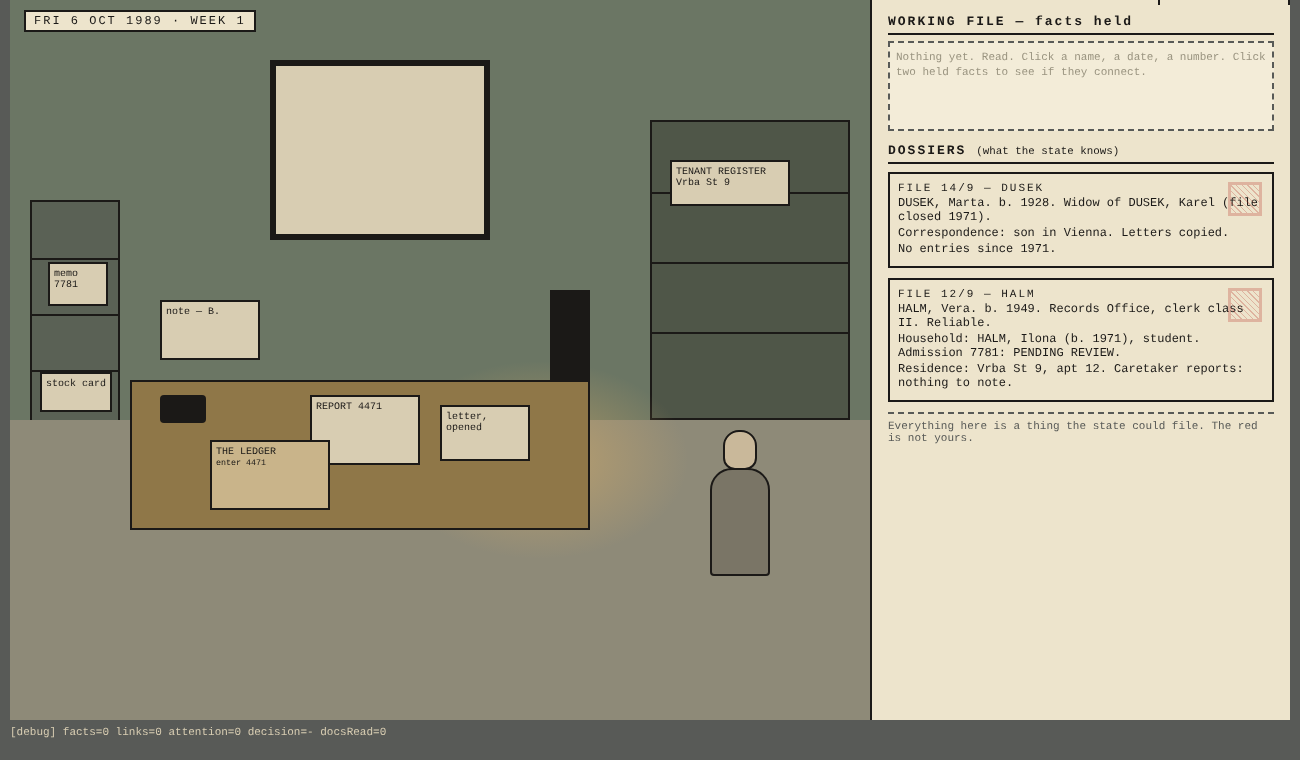
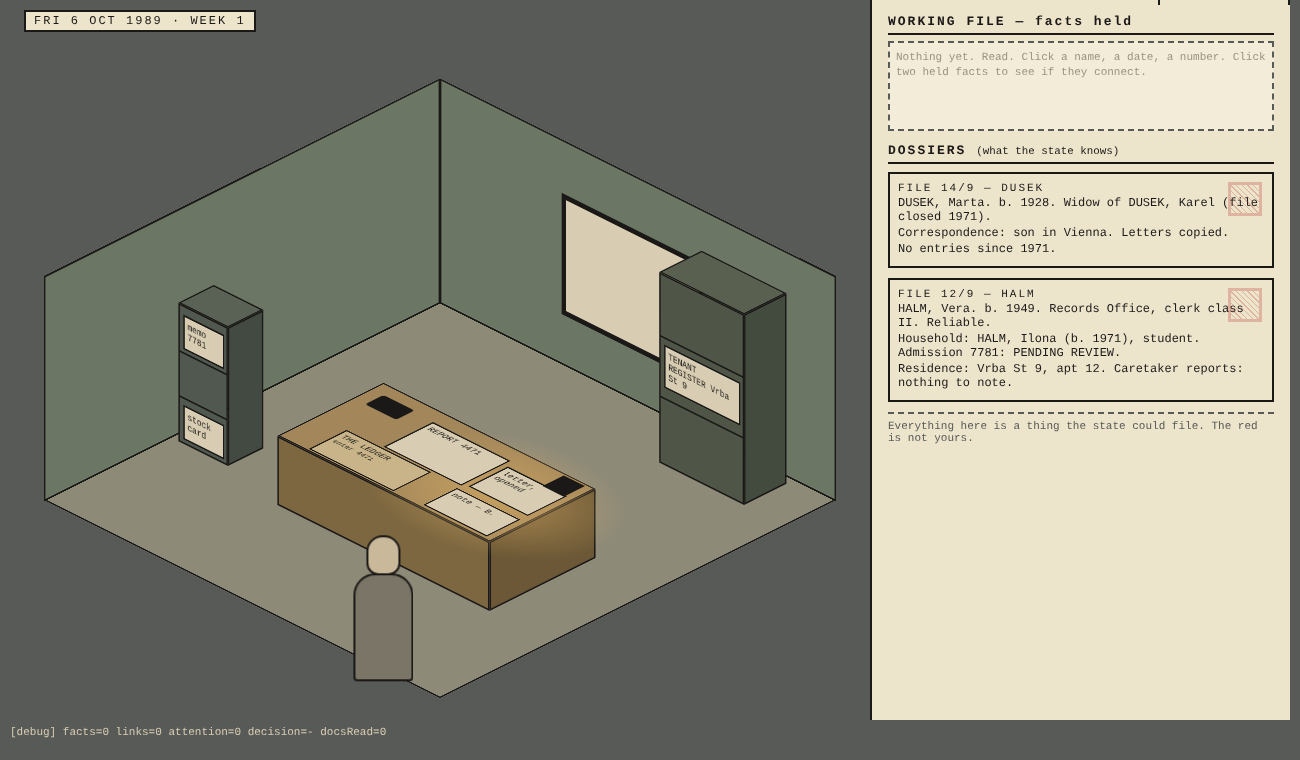
feat(prototype): render the archivist office as an isometric plate
Prototype: prototypes/paper-walls-archivist-concept/. CSS 3D dimetric room
(two back walls, desk, shelf, cabinet, figure billboard); hotspots lie on
the surfaces; logic unchanged; click-through re-verified.

Claude-Session: https://claude.ai/code/session_01XssXybEJ9thyVH7R6HeSgS

diff --git a/prototypes/paper-walls-archivist-concept/prototype.html b/prototypes/paper-walls-archivist-concept/prototype.html
@@ -11,24 +11,42 @@
   *{box-sizing:border-box}
   body{margin:0;background:var(--concrete);font-family:"Courier New",Courier,monospace;color:var(--soot);}
   #stage{position:relative;width:1280px;height:720px;margin:0 auto;background:var(--bone);overflow:hidden}
-  /* the office plate */
-  #plate{position:absolute;left:0;top:0;width:860px;height:720px;background:var(--green);}
-  #floor{position:absolute;left:0;top:420px;width:860px;height:300px;background:#8e8a78;}
-  #desk{position:absolute;left:120px;top:380px;width:460px;height:150px;background:var(--ochre);border:2px solid var(--soot)}
-  #lamp{position:absolute;left:540px;top:290px;width:40px;height:90px;background:var(--soot)}
-  #lamppool{position:absolute;left:380px;top:360px;width:300px;height:200px;background:radial-gradient(ellipse at center,rgba(221,176,101,.55),rgba(221,176,101,0) 70%);pointer-events:none}
-  #shelf{position:absolute;left:640px;top:120px;width:200px;height:300px;background:#4f5648;border:2px solid var(--soot)}
+  /* the office plate — CSS 3D isometric (dimetric 60/45) projection */
+  #plate{position:absolute;left:0;top:0;width:860px;height:720px;background:var(--concrete);overflow:hidden}
+  #room{position:absolute;left:150px;top:220px;width:560px;height:560px;transform-style:preserve-3d;transform:rotateX(60deg) rotateZ(45deg);background:#8e8a78;border:2px solid var(--soot)}
+  #room *{transform-style:preserve-3d}
+  .wall{position:absolute;background:var(--green);border:2px solid var(--soot)}
+  #wallL{left:0;top:-260px;width:560px;height:260px;transform-origin:bottom;transform:rotateX(-90deg)}
+  #wallR{left:0;top:0;width:260px;height:560px;transform-origin:left;transform:rotateY(-90deg)}
+  #window{position:absolute;left:170px;top:60px;width:200px;height:140px;background:var(--bone);border:6px solid var(--soot)}
+  .face{position:absolute;border:2px solid var(--soot)}
+  /* desk: 300 x 150 x 80 at (170,250) */
+  #deskTop{left:170px;top:250px;width:300px;height:150px;background:#a3875a;transform:translateZ(80px)}
+  #deskFront{left:170px;top:320px;width:300px;height:80px;background:#7d6740;transform-origin:bottom;transform:rotateX(-90deg)}
+  #deskSide{left:470px;top:250px;width:80px;height:150px;background:#6c5836;transform-origin:left;transform:rotateY(-90deg)}
+  /* shelf: 120 x 60 x 220 against the left wall at (380,10) */
+  #shelfTop{left:380px;top:10px;width:120px;height:60px;background:#59604f;transform:translateZ(220px)}
+  #shelfFront{left:380px;top:-150px;width:120px;height:220px;background:#4f5648;transform-origin:bottom;transform:rotateX(-90deg)}
+  #shelfSide{left:500px;top:10px;width:220px;height:60px;background:#434a3e;transform-origin:left;transform:rotateY(-90deg)}
   .shelfrow{position:absolute;left:0;width:100%;height:2px;background:var(--soot)}
-  #cabinet{position:absolute;left:20px;top:200px;width:90px;height:230px;background:#5a6155;border:2px solid var(--soot)}
+  /* cabinet: 70 x 50 x 160 against the right wall at (10,330) */
+  #cabTop{left:10px;top:330px;width:70px;height:50px;background:#5a6155;transform:translateZ(160px)}
+  #cabFront{left:10px;top:220px;width:70px;height:160px;background:#505850;transform-origin:bottom;transform:rotateX(-90deg)}
+  #cabSide{left:80px;top:330px;width:160px;height:50px;background:#434a42;transform-origin:left;transform:rotateY(-90deg)}
   .drawerline{position:absolute;left:0;width:100%;height:2px;background:var(--soot)}
-  #window{position:absolute;left:260px;top:60px;width:220px;height:180px;background:var(--bone);border:6px solid var(--soot)}
-  #berta{position:absolute;left:700px;top:430px;width:60px;height:150px;}
+  #lamp{position:absolute;left:430px;top:255px;width:30px;height:30px;background:var(--soot);transform:translateZ(81px)}
+  #lamppool{position:absolute;left:260px;top:220px;width:300px;height:220px;background:radial-gradient(ellipse at center,rgba(221,176,101,.6),rgba(221,176,101,0) 70%);transform:translateZ(81px);pointer-events:none}
+  #phone{position:absolute;left:190px;top:270px;width:44px;height:26px;background:var(--soot);border-radius:4px;transform:translateZ(82px)}
+  /* figure: a billboard standing on the floor, facing the camera */
+  #berta{position:absolute;left:470px;top:430px;width:60px;height:150px;transform-origin:50% 100%;transform:rotateZ(-45deg) rotateX(-60deg)}
   #berta .head{width:34px;height:40px;background:#c9b89a;border-radius:16px 16px 12px 12px;margin:0 auto;border:2px solid var(--soot)}
   #berta .body{width:60px;height:108px;background:#7a7566;border-radius:22px 22px 4px 4px;border:2px solid var(--soot);margin-top:-2px}
-  #phone{position:absolute;left:150px;top:395px;width:46px;height:28px;background:var(--soot);border-radius:4px}
+  #berta.fig:hover .body{border-width:3px}
+  .onfloor{position:absolute}
   /* hotspots: paper rectangles with keyline, lifted corner on hover */
-  .hot{position:absolute;background:var(--bone);border:2px solid var(--soot);cursor:pointer;transition:transform .12s ease-out;padding:4px;font-size:10px;line-height:1.1;overflow:hidden}
-  .hot:hover,.hot:focus{transform:translate(-2px,-3px);border-width:3px;outline:none}
+  .hot{position:absolute;background:var(--bone);border:2px solid var(--soot);cursor:pointer;transition:transform .12s ease-out;padding:4px;font-size:11px;line-height:1.1;overflow:hidden;transform:translateZ(1px)}
+  .hot:hover,.hot:focus{transform:translateZ(6px);border-width:3px;outline:none}
+  .hot.lift{transform:translateZ(6px)}
   .hot.read{border-color:var(--carbon);box-shadow:3px 3px 0 var(--carbon);color:var(--carbon)}
   .hot.red{border-color:var(--red)}
   .fig{position:absolute;cursor:pointer}
@@ -73,23 +91,31 @@
 <body>
 <div id="stage">
   <div id="plate">
-    <div id="window"></div>
-    <div id="cabinet"><div class="drawerline" style="top:56px"></div><div class="drawerline" style="top:112px"></div><div class="drawerline" style="top:168px"></div></div>
-    <div id="shelf"><div class="shelfrow" style="top:70px"></div><div class="shelfrow" style="top:140px"></div><div class="shelfrow" style="top:210px"></div></div>
-    <div id="floor"></div>
-    <div id="lamppool"></div>
-    <div id="desk"></div>
-    <div id="lamp"></div>
-    <div id="phone" title="Telephone"></div>
-    <div id="berta" class="fig" tabindex="0" title="Berta, next desk"><div class="head"></div><div class="body"></div></div>
-    <!-- hotspots: each is a document; one-unit displacement from its surface -->
-    <div class="hot" id="h1" tabindex="0" style="left:300px;top:395px;width:110px;height:70px">REPORT 4471</div>
-    <div class="hot" id="h2" tabindex="0" style="left:430px;top:405px;width:90px;height:56px">letter, opened</div>
-    <div class="hot" id="h3" tabindex="0" style="left:660px;top:160px;width:120px;height:46px">TENANT REGISTER Vrba St 9</div>
-    <div class="hot" id="h4" tabindex="0" style="left:38px;top:262px;width:60px;height:44px">memo 7781</div>
-    <div class="hot" id="h5" tabindex="0" style="left:150px;top:300px;width:100px;height:60px">note — B.</div>
-    <div class="hot" id="h6" tabindex="0" style="left:30px;top:372px;width:72px;height:40px">stock card</div>
-    <div class="hot" id="ledger" tabindex="0" style="left:200px;top:440px;width:120px;height:70px;background:#c9b48a">THE LEDGER<br><small>enter 4471</small></div>
+    <div id="room">
+      <div id="wallL" class="wall"><div id="window"></div></div>
+      <div id="wallR" class="wall"></div>
+      <div id="shelfTop" class="face"></div>
+      <div id="shelfFront" class="face"><div class="shelfrow" style="top:70px"></div><div class="shelfrow" style="top:140px"></div>
+        <div class="hot" id="h3" tabindex="0" style="left:6px;top:78px;width:108px;height:50px">TENANT REGISTER Vrba St 9</div></div>
+      <div id="shelfSide" class="face"></div>
+      <div id="cabTop" class="face"></div>
+      <div id="cabFront" class="face"><div class="drawerline" style="top:52px"></div><div class="drawerline" style="top:104px"></div>
+        <div class="hot" id="h4" tabindex="0" style="left:6px;top:8px;width:58px;height:40px">memo 7781</div>
+        <div class="hot" id="h6" tabindex="0" style="left:6px;top:112px;width:58px;height:40px">stock card</div></div>
+      <div id="cabSide" class="face"></div>
+      <div id="lamppool"></div>
+      <div id="deskTop" class="face">
+        <div class="hot" id="h1" tabindex="0" style="left:90px;top:20px;width:110px;height:70px">REPORT 4471</div>
+        <div class="hot" id="h2" tabindex="0" style="left:206px;top:30px;width:84px;height:56px">letter, opened</div>
+        <div class="hot" id="h5" tabindex="0" style="left:200px;top:96px;width:90px;height:48px">note — B.</div>
+        <div class="hot" id="ledger" tabindex="0" style="left:40px;top:92px;width:120px;height:54px;background:#c9b48a">THE LEDGER<br><small>enter 4471</small></div>
+      </div>
+      <div id="deskFront" class="face"></div>
+      <div id="deskSide" class="face"></div>
+      <div id="lamp"></div>
+      <div id="phone" title="Telephone"></div>
+      <div id="berta" class="fig" tabindex="0" title="Berta, next desk"><div class="head"></div><div class="body"></div></div>
+    </div>
     <div id="datestamp">FRI 6 OCT 1989 · WEEK 1</div>
   </div>
   <div id="ui">

diff --git a/prototypes/paper-walls-archivist-concept/README.md b/prototypes/paper-walls-archivist-concept/README.md
@@ -27,7 +27,7 @@ ends after one decision; reload to try another.
 
 ## What is in it
 
-One office plate drawn with flat CSS boxes in the Carbon Copy palette, six
+One office plate in a CSS 3D isometric projection (two back walls, desk, shelf, cabinet, a standing figure billboard) in the Carbon Copy palette, six
 documents as paper hotspots (keyline, lifted corner on focus, no glow), a fact
 board, six fact links, one colleague with three unlockable questions, one filing
 decision with three options (one is VOID until a specific link is found), one

diff --git a/prototypes/paper-walls-archivist-concept/REPORT.md b/prototypes/paper-walls-archivist-concept/REPORT.md
@@ -28,7 +28,7 @@ explanation. Not yet proved out: nobody has played it.
 
 ## Approach
 
-One self-contained `prototype.html`: an office plate in flat CSS boxes using the
+One self-contained `prototype.html`: an office plate in a CSS 3D isometric projection using the
 art bible palette, six documents as keylined paper hotspots, a fact board where
 clicking a name or number in a document holds it and clicking two held facts
 tests a link (six authored links), a colleague with questions unlocked by links,
